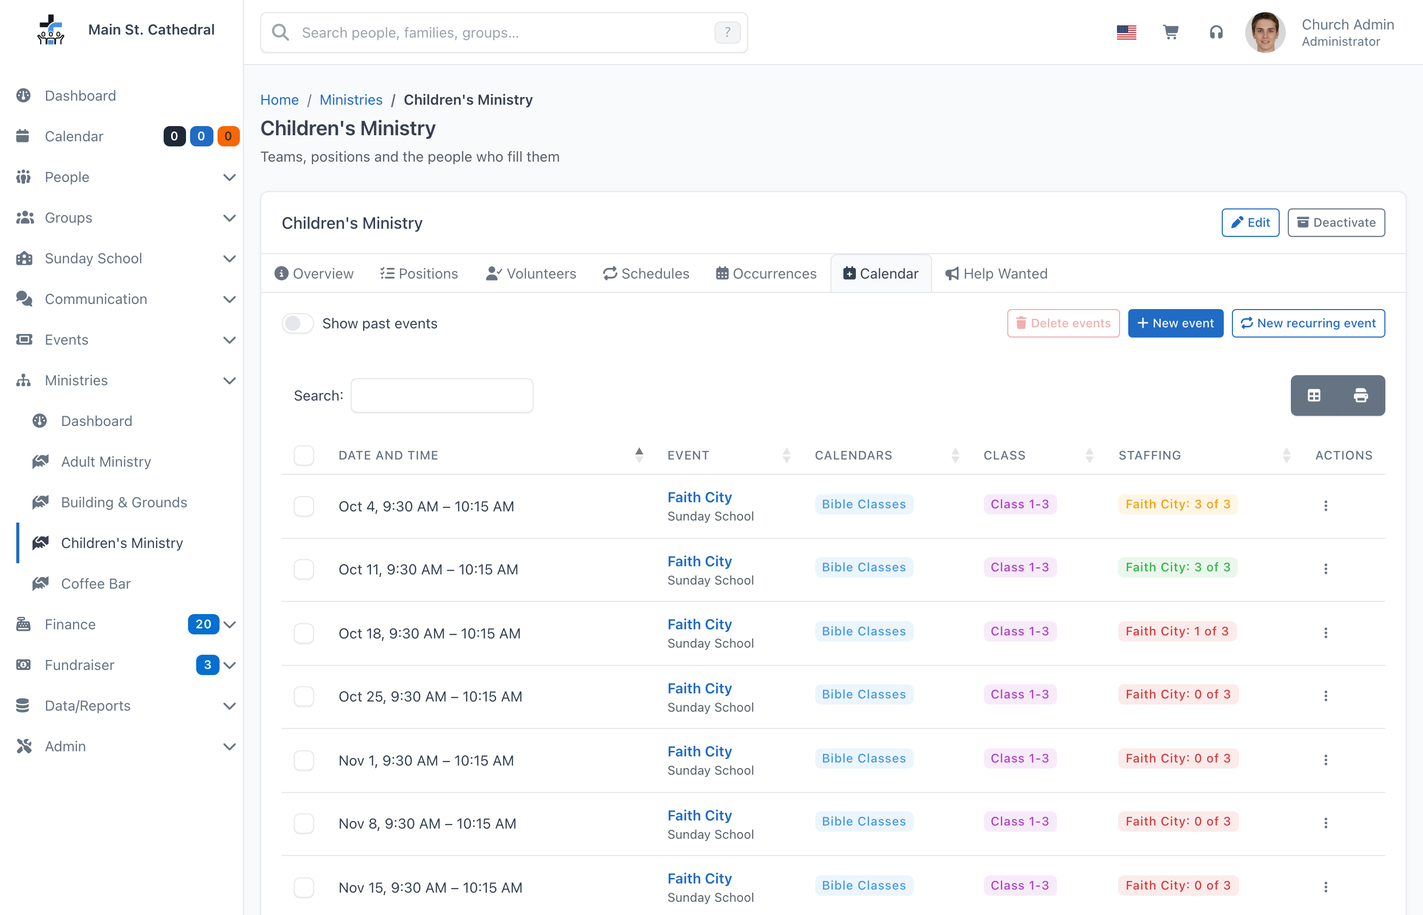
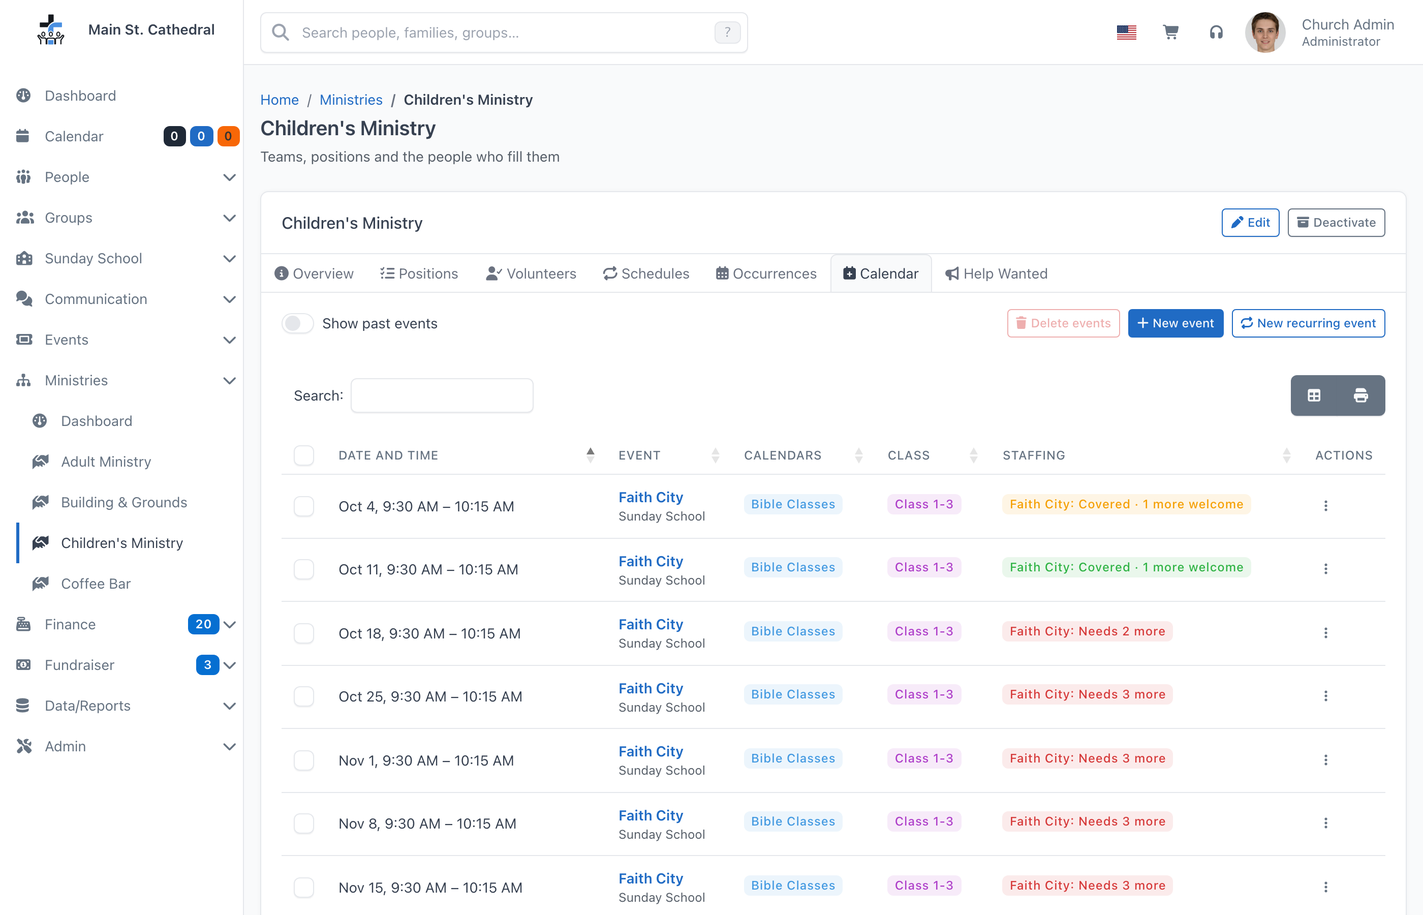
Volunteer v2 docs: staffing reads as status words, several default volunteers
Counts read "Needs 2 more", "Covered · 1 more welcome", "Optional",
"Full · 3 of 3" or "Not needed this time" instead of "1 / 0" and
"N still needed"; the staffing view explains the words once and the
dashboard, Occurrences tab, Calendar tab and event Volunteers card point
there. A schedule's staffing need and the Generate dialog now take one
default volunteer per place up to Max, each with its own Set as
Accepted, and lowering Max below the chosen ones blocks Save.

Retakes the dashboard (admin and coordinator), Calendar tab, staffing
view, Assign dialog, Add schedule and Generate occurrences screenshots.

diff --git a/docs/user-guide/ministries/schedules-and-occurrences.md b/docs/user-guide/ministries/schedules-and-occurrences.md
@@ -28,7 +28,7 @@ On the ministry page, open the **Schedules** tab. Each row shows the schedule's 
 
 The rest of the dialog, and the **Save** button, appear only once an event or a class is chosen. A schedule must follow at least one event that is still to come.
 
-![Add schedule, with a default volunteer](/img/user-guide/ministries/add-schedule.png)
+![Add schedule, with two default volunteers for a position with Max 2](/img/user-guide/ministries/add-schedule.png)
 
 | Where the dates come from | Then choose | The schedule follows |
 |---|---|---|
@@ -59,11 +59,12 @@ Each value can be at most 720 minutes (12 hours). The times are always worked ou
 
 **Staffing needs** has one row per active position of the team, each with **Min** and **Max**. Every position starts ticked on a new schedule; untick a position the schedule never uses. A schedule with no staffing needs makes occurrences that need nobody, so there is nothing to fill. Raising **Min** above **Max** raises Max with it, and a Max below Min is refused.
 
-Each row also has a **Default volunteer**. The list offers only people qualified for that position, people in the volunteer pool first and whoever served least recently at the top. Choose someone and they are assigned on every new occurrence of this schedule for as long as they stay qualified, and asked to respond. Tick **Set as Accepted** to record their acceptance as well, so they are not asked; reminders are still sent. Choose **None** to fill the position week by week.
+Each row also has **Default volunteers**: one list per place the position has, so a position with **Max** 2 has two lists (up to 10 lists; with a higher Max, one more list than people already chosen). Each list offers only people qualified for that position, people in the volunteer pool first and whoever served least recently at the top, and someone chosen in one list is not offered in the others. Everyone chosen is assigned on every new occurrence of this schedule, in the order of the lists, for as long as they stay qualified, and asked to respond. Tick **Set as Accepted** beside a person to record their acceptance as well, so they are not asked; reminders are still sent. Leave a list on **None** to fill that place week by week.
 
-- Changing a default never changes occurrences that already exist. It applies to occurrences made from then on.
-- If the default volunteer loses the qualification, the dialog shows them as *"(no longer qualified)"*, and the position is left open on new occurrences until they are qualified again.
-- **Remove Volunteer** on the [Volunteers tab](./volunteers-and-qualifications.md#removing-a-volunteer) clears the person as a default on every schedule of the ministry.
+- Changing the defaults never changes occurrences that already exist. It applies to occurrences made from then on.
+- If a default volunteer loses the qualification, their list shows them as *"(no longer qualified)"*, and their place is left open on new occurrences until they are qualified again. The other default volunteers of the position are still assigned.
+- Lowering **Max** below the number of default volunteers keeps every choice but marks the extra ones *"Over Max: remove this one or raise Max."*, and **Save** is refused with, for example, *"Barista: Max is 1 but 2 default volunteers are chosen. Remove one or raise Max."*
+- **Remove Volunteer** on the [Volunteers tab](./volunteers-and-qualifications.md#removing-a-volunteer) clears the person as a default on every schedule of the ministry. The position's other default volunteers stay.
 
 ## What happens when you save
 
@@ -75,7 +76,7 @@ Editing a schedule never makes occurrences. Changing what a schedule follows (wh
 
 Occurrences are made only up to the **scheduling horizon**: **Admin → Ministry Settings → Scheduling horizon (weeks)**, 8 weeks by default, from 1 to 52. The horizon applies to every schedule in the church, including schedules with a later last date.
 
-Nobody has to come back to make more. Once a day the background jobs **top up** every active schedule of every active ministry: each one gets occurrences for its events up to the horizon, and each position's default volunteer is assigned on the new ones. Ministry Settings shows when the top-up last ran and what it made, for example *"Schedules last topped up: Oct 1, 5:13 PM — 0 new occurrences"*, and **Run background jobs now** on that page runs it at once. See the [Ministry Settings](../../administration/system-settings.md#ministry-settings) reference.
+Nobody has to come back to make more. Once a day the background jobs **top up** every active schedule of every active ministry: each one gets occurrences for its events up to the horizon, and each position's default volunteers are assigned on the new ones. Ministry Settings shows when the top-up last ran and what it made, for example *"Schedules last topped up: Oct 1, 5:13 PM — 0 new occurrences"*, and **Run background jobs now** on that page runs it at once. See the [Ministry Settings](../../administration/system-settings.md#ministry-settings) reference.
 
 ## Generate occurrences
 
@@ -83,12 +84,12 @@ Nobody has to come back to make more. Once a day the background jobs **top up** 
 
 ![The Generate occurrences dialog](/img/user-guide/ministries/generate-occurrences.png)
 
-The first line says how far the run reaches: *"Occurrences are created for events in the next 8 weeks (through Nov 26)."*, or *"Occurrences are created for events through Nov 1, when this schedule ends."* Below it, each position the schedule needs has **Fill by default with**. This is the schedule's default volunteer: the list opens on the saved choice, and whatever the dialog shows when you click **Generate** is saved on the schedule. **Leave open** means no default. A position nobody is qualified for says *"Nobody is qualified for this position yet, so it stays open."*
+The first line says how far the run reaches: *"Occurrences are created for events in the next 8 weeks (through Nov 27)."*, or *"Occurrences are created for events through Nov 1, when this schedule ends."* Below it, each position the schedule needs is listed with how many it needs (for example *"Teacher — 1 to 2 needed"*) and **Fill by default with**. These are the schedule's default volunteers, one list per place up to Max, each with its own **Set as Accepted**, as in [the schedule dialog](#staffing-needs-and-default-volunteers). The lists open on the saved choices, and whatever the dialog shows when you click **Generate** is saved on the schedule. **Leave open** leaves that place without a default. A position nobody is qualified for says *"Nobody is qualified for this position yet, so it stays open."*
 
 Click **Generate**. The result appears as a message:
 
 - **Occurrences made**: for example *"8 occurrences created, 0 were already there. 16 volunteers assigned"*.
-- **Nothing new**: *"No new occurrences. All 8 events through Nov 26 already have one."* Running Generate again is always safe: it never makes a second occurrence for the same event, and default volunteers go only on the occurrences that the run makes.
+- **Nothing new**: *"No new occurrences. All 8 events through Nov 27 already have one."* Running Generate again is always safe: it never makes a second occurrence for the same event, and default volunteers go only on the occurrences that the run makes.
 - **No events found**: the dialog stays open with an amber warning in the schedule's own terms, for example *"No events on the calendar use Faith City as their class between Oct 4 and Nov 29."* For a class or a ministry schedule, a coordinator also gets a button such as **New recurring event for Faith City**, which opens [New recurring event](./events-and-calendar.md#new-event-and-new-recurring-event) on the Calendar tab with the class or the title filled in.
 
 A single run makes at most 366 occurrences.
@@ -113,10 +114,13 @@ The **Occurrences** tab of the ministry page lists the dates every schedule prod
 
 | Icon | Meaning |
 |---|---|
-| Green check | Every position is filled and confirmed. |
-| Amber hourglass | Every position is assigned, but someone has not answered yet. |
-| Red triangle | At least one position is still short. The tooltip says how many are still needed. |
+| Green check | Every position has the people it needs (*Full*, *Covered · N more welcome* or *Optional*), and everyone has answered. |
+| Amber hourglass | Every position has the people it needs, but someone has not answered yet. |
+| Red triangle | At least one position is still short. The tooltip says how many more are needed in all and which positions are short, for example *"Needs 3 more"*, *"0 of 3–4"* and *"2 Faith City · Helper, 1 Faith City · Teacher"*. |
+| Grey circle | Nothing is required (every Min is 0) and nobody has signed up yet. |
 | Grey question mark | No staffing needs set, so there is nothing to fill. |
+
+The tooltip uses the same words as the rest of Volunteer Management; see [How staffing reads](./staffing-an-occurrence.md#how-staffing-reads).
 
 - Tick one or more rows and click **Delete** (it reads *Delete (N)*) to remove those occurrences. Their assignments, the volunteers' responses, any substitutions and the queued reminders go with them. The calendar events stay.
 - **Staff an event** staffs a single event that no schedule follows, such as a workday. See [Staff an event](./events-and-calendar.md#staff-an-event). Its occurrence is listed with a **single event** badge.

diff --git a/docs/user-guide/ministries/ministry-dashboard.md b/docs/user-guide/ministries/ministry-dashboard.md
@@ -14,10 +14,10 @@ description: What needs your attention — gaps to fill, replies still outstandi
 
 Top to bottom, in the order that matters:
 
-1. **Needs filling** — every position still short in the window, with the date, ministry and team, a red *"N still needed"* badge and a **Fill** button that opens the [staffing view](./staffing-an-occurrence.md) on that date. The red count in the card header is the total. When nothing is short the card says *"Nothing is short — every position in this window has the people it needs."*
+1. **Needs filling** — every position still short in the window, with the date, ministry and team, a red badge such as *"Needs 2 more"* (its tooltip gives the numbers, for example *"0 of 2–3"*) and a **Fill** button that opens the [staffing view](./staffing-an-occurrence.md) on that date. The red count in the card header is the total number of people still needed. When nothing is short the card says *"Nothing is short — every position in this window has the people it needs."*
 2. **Waiting for a reply** — assignments still **Pending**, each with the person, position, date, ministry and team. A yellow **Due soon** badge marks those inside the reminder lead time. The row menu offers **Open the occurrence**, where you can record their answer, send the message again or cancel the assignment, and **View person**.
 3. **Substitution requests** — one card per proposal (*"Lena Black asks Jean Hart to take their place"*) with **Approve** and **Reject**. See [Substitutions](./substitutions.md).
-4. **Upcoming** — a table of the occurrences in the window: **When** (the volunteers' start time), **Ministry** and team, **Schedule**, **Staffed** (for example *0 / 3*), **Status** and an action menu with **Staff this occurrence**, **Open the ministry** and, unless its event was deleted, **View the event**. The Staffed badge is green when full and confirmed, amber when full but someone has not answered, and red when short.
+4. **Upcoming** — a table of the occurrences in the window: **When** (the volunteers' start time), **Ministry** and team, **Schedule**, **Staffed** (for example *Needs 2 more*, *Covered · 1 more welcome* or *Full*), **Status** and an action menu with **Staff this occurrence**, **Open the ministry** and, unless its event was deleted, **View the event**. The Staffed badge is red when a position is short, amber when every position has its people but someone has not answered, green when everyone has answered, and grey for a date that requires nobody and has nobody yet (*Optional*) or has *No staffing needs set*. Its tooltip gives the numbers, for example *"3 assigned, 3 needed, room for 1 more · 2 not yet confirmed"*. See [How staffing reads](./staffing-an-occurrence.md#how-staffing-reads).
 5. **My ministries and teams** — the ministries and teams the viewer manages. For a team leader on a staff login this card is their way in: they lead a team, not the ministry above it, so the ministry name is marked **View only**.
 6. **Notifications** — the number of volunteer emails that could not be delivered. An administrator gets a **Ministry Settings** button; anyone else is asked to tell an administrator. See [Volunteer email and reminders](./email-and-reminders.md).
 

diff --git a/docs/user-guide/ministries/events-and-calendar.md b/docs/user-guide/ministries/events-and-calendar.md
@@ -28,7 +28,7 @@ The **Calendar** tab of the [ministry page](./ministries-teams-positions.md) lis
 | **Event** | The title, linked to the event's page, with its event type underneath and an *Inactive* badge when the event is inactive. |
 | **Calendars** | The calendars the event is on. |
 | **Class** | The Sunday School class that is the event's Linked Group, if any. |
-| **Staffing** | One badge per team of this ministry that staffs the event, for example *"Faith City: 3 of 3"*: red while a position is short, yellow while someone has not answered, green when every position is filled and confirmed. Each badge opens that occurrence. *Not staffed* when no team staffs it. A past event also shows its headcount, for example *"Headcount: 42"* or *"No headcount recorded yet"*. |
+| **Staffing** | One badge per team of this ministry that staffs the event, for example *"Faith City: Needs 2 more"* or *"Faith City: Covered · 1 more welcome"*: red while a position is short, yellow while someone has not answered, green when every position has its people and everyone has answered, grey when nothing is required. The tooltip gives the numbers, for example *"1 of 3–4"*. Each badge opens that occurrence. *Not staffed* when no team staffs it. A past event also shows its headcount, for example *"Headcount: 42"* or *"No headcount recorded yet"*. |
 
 The action menu of a row offers **Staff this event** (for an upcoming, active event: the [Staff an event](#staff-an-event) dialog with the event already chosen), **Edit event**, which opens the church event editor, and **View event**.
 
@@ -104,7 +104,7 @@ In the church event editor (and in the calendar's side-panel editor), under **Sh
 
 ## The Volunteers card on the event view
 
-An event with volunteer occurrences shows a **Volunteers** card on its detail page: the ministry, the schedule, *"N of M filled"* and a badge (*"N still needed"*, **Fully staffed**, or **No staffing needs set**), with a **Manage staffing** link to the [staffing view](./staffing-an-occurrence.md). An event that no team staffs shows no card.
+An event with volunteer occurrences shows a **Volunteers** card on its detail page: the ministry, the schedule, the numbers (for example *"3 assigned, 3 needed, room for 1 more"*) and a badge in the same words as the ministry pages (*"Needs 2 more"*, *"Covered · 1 more welcome"*, *"Full"*, *"Optional"*, or **No staffing needs set**; see [How staffing reads](./staffing-an-occurrence.md#how-staffing-reads)), with a **Manage staffing** link to the [staffing view](./staffing-an-occurrence.md). An event that no team staffs shows no card.
 
 ## Coordinators and events
 

diff --git a/docs/user-guide/ministries/staffing-an-occurrence.md b/docs/user-guide/ministries/staffing-an-occurrence.md
@@ -20,7 +20,7 @@ Dates and times on this page, and everywhere in Volunteer Management, follow Chu
 
 ## One card per position
 
-Each card shows **filled / needed** and the people assigned, each with a status badge and a row menu. A position that is short carries a *"N still needed"* banner; one with nobody on it shows *Nobody assigned yet*.
+Each card says in its header how the position stands, for example **Needs 2 more** or **Covered · 1 more welcome**, with the numbers on the line below (*"2 assigned, 2 needed, room for 1 more"*). Then come the people assigned, each with a status badge and a row menu. A position with nobody on it shows *Nobody assigned yet*.
 
 | Status | Meaning |
 |---|---|
@@ -30,6 +30,21 @@ Each card shows **filled / needed** and the people assigned, each with a status 
 | **Cancelled** | The coordinator took them off. The row stays, because it has history. |
 | **Substituted** | Someone else took their place — see [Substitutions](./substitutions.md). |
 | **Completed** | The occurrence has passed. |
+
+### How staffing reads
+
+A count is always a status word first and the numbers second. Min decides the colour and Max decides how much room is left.
+
+| Label | When | Colour |
+|---|---|---|
+| **Needs 2 more** | Fewer people than Min. The numbers read *"0 of 2–3"* (nobody yet, 2 to 3 wanted) or *"0 of 1"* when Min and Max are the same. | Red |
+| **Covered · 1 more welcome** | Min is met and Max leaves room for more, for example *"2 assigned, 2 needed, room for 1 more"*. | Green, or yellow while someone has not answered (*"· 2 not yet confirmed"*) |
+| **Optional · up to 2 welcome** | Min is 0 and nobody is on it yet. | Grey |
+| **Optional · 1 of up to 2** | Min is 0 and someone is on it. | Green, or yellow while someone has not answered |
+| **Full · 3 of 3** | Max is reached. | Green, or yellow while someone has not answered |
+| **Not needed this time** | This occurrence's own needs set the position to Min 0 and Max 0. | Grey |
+
+A whole date (every position of the occurrence together, or one team on an event) reads the same way, added up: **Needs N more** with the total shortfall when any position is short, otherwise **Full** when no position has room, **Optional** when nothing is required, and **Covered · N more welcome** in every other case. The same words are used everywhere Volunteer Management shows a count: the [Ministry Dashboard](./ministry-dashboard.md), the tooltips on the Occurrences tab, the badges on the Calendar tab, the Volunteers card on an event and the member portal's volunteer pages.
 
 ### Assign a volunteer
 

diff --git a/docs/user-guide/ministries/volunteers-and-qualifications.md b/docs/user-guide/ministries/volunteers-and-qualifications.md
@@ -42,14 +42,14 @@ The rows are the pool **plus** anyone qualified for a position in view who is no
 For a team [linked to a Sunday School class](./ministries-teams-positions.md#linking-a-team-to-a-sunday-school-class), a tick also makes the person a **Teacher** of the class, and taking away their last tick in that team removes the Teacher role.
 
 :::tip A position nobody is qualified for cannot be staffed
-Before creating a schedule, make sure every position it needs has at least one tick. The staffing picker and the **Default volunteer** lists only ever offer qualified people, and the **Generate occurrences** dialog says *"Nobody is qualified for this position yet, so it stays open."*
+Before creating a schedule, make sure every position it needs has at least one tick. The staffing picker and the **Default volunteers** lists only ever offer qualified people, and the **Generate occurrences** dialog says *"Nobody is qualified for this position yet, so it stays open."*
 :::
 
 ## Removing a volunteer
 
-The **Actions** menu at the end of a row offers **Remove Volunteer** (ministry coordinators and above). It takes away every qualification the person holds in this ministry, cancels their assignments on upcoming occurrences, clears them as the [default volunteer](./schedules-and-occurrences.md#staffing-needs-and-default-volunteers) on every schedule of the ministry, and removes them from the pool Group. Past service history stays. The notification reports what was removed, for example *"Removed. 2 qualifications, 3 upcoming assignments, 2 schedule defaults."*
+The **Actions** menu at the end of a row offers **Remove Volunteer** (ministry coordinators and above). It takes away every qualification the person holds in this ministry, cancels their assignments on upcoming occurrences, clears them as a [default volunteer](./schedules-and-occurrences.md#staffing-needs-and-default-volunteers) on every schedule of the ministry (a position's other default volunteers stay), and removes them from the pool Group. Past service history stays. The notification reports what was removed, for example *"Removed. 2 qualifications, 3 upcoming assignments, 2 schedule defaults."*
 
-Taking away a single qualification is different: the person stays a schedule's default volunteer, and that position is left open on new occurrences until they are qualified again.
+Taking away a single qualification is different: the person stays one of the schedule's default volunteers, and their place is left open on new occurrences until they are qualified again.
 
 ## Where else qualifications show up
 

diff --git a/docs/user-guide/events.md b/docs/user-guide/events.md
@@ -186,7 +186,7 @@ Those links do nothing for outside apps until an administrator turns on **Enable
 When [Volunteer Management (v2)](./ministries/index.md) is on, volunteers are scheduled for calendar events: every volunteer occurrence follows an event, and the event stays in charge of the date and time. A ministry creates its own one-time and recurring events on its **Calendar** tab; a schedule can also follow church services (events of a type with one title) or a Sunday School class's meetings (events whose Linked Group is the class).
 
 - The event editor gains a **Volunteer Ministry** dropdown under **Linked Group** (open **Show more options**) that says which ministry owns the event. A ministry coordinator without the Add Events permission may create and edit events of their own ministry, and no other.
-- An event that has volunteer occurrences shows a **Volunteers** card on its detail page — the ministry, the schedule, *"N of M filled"*, a *still needed* / **Fully staffed** badge, and a **Manage staffing** link.
+- An event that has volunteer occurrences shows a **Volunteers** card on its detail page — the ministry, the schedule, how it stands (for example *"Needs 2 more"* or *"Covered · 1 more welcome"*) with the numbers, and a **Manage staffing** link.
 - A church calendar's settings gain **Ministries that may add events**, so that a ministry's coordinators may put its events on that calendar.
 - ChurchCRM 7.8.0 adds an event type named **Other** when there is none; a ministry's new events start with it unless **Admin → Ministry Settings** names another default type.
 

diff --git a/docs/user-guide/ministries/index.md b/docs/user-guide/ministries/index.md
@@ -58,7 +58,7 @@ If you have twenty minutes:
 2. On the ministry page, **Positions → Add position** for each role (say, Barista and Host).
 3. **Volunteers → Add Volunteer** a few people, then tick the positions each one can serve in.
 4. Make sure the events exist. A team that serves at Sunday worship can follow the services already on the church calendar. For the ministry's own events, open the **Calendar** tab and click **New recurring event** (or **New event**), then answer **Staff them** when the page asks *"Staff them now?"*
-5. **Schedules → Add schedule** (already filled in if you came from step 4): choose the events it follows, set how many of each position are needed and, if you like, who fills each one by default, and click **Save**. The occurrences for the next 8 weeks are made at once, and a daily background job keeps adding them.
+5. **Schedules → Add schedule** (already filled in if you came from step 4): choose the events it follows, set how many of each position are needed and, if you like, who fills them by default (as many people as the position's Max), and click **Save**. The occurrences for the next 8 weeks are made at once, and a daily background job keeps adding them.
 6. Back on the **Dashboard**, the dates that are still short appear under **Needs filling**. Click **Fill**, assign someone, and the gap is gone.
 
 Everything else — responses, reminders, substitutions, the member's own pages — follows from those six steps.

diff --git a/docs/user-guide/ministries/email-and-reminders.md b/docs/user-guide/ministries/email-and-reminders.md
@@ -14,7 +14,7 @@ Every subject is prefixed with the church name. Every body names the ministry, t
 
 | Message | Who receives it | When |
 |---|---|---|
-| **You have been scheduled to serve** | the volunteer | when a coordinator assigns them, or when a schedule assigns them as its default volunteer without *Set as Accepted* (on Save, Generate, Staff them or the daily top-up) |
+| **You have been scheduled to serve** | the volunteer | when a coordinator assigns them, or when a schedule assigns them as one of its default volunteers without *Set as Accepted* (on Save, Generate, Staff them or the daily top-up) |
 | **Reminder: you are scheduled to serve** | the volunteer | the configured number of hours before they start serving (see below); once per assignment |
 | **Thank you for signing up to serve** | the volunteer | when they sign themselves up on the Member Portal |
 | **Your substitute request was approved** / **was not approved** | the volunteer *and* the proposed substitute | when a coordinator decides a [substitution](./substitutions.md) |
